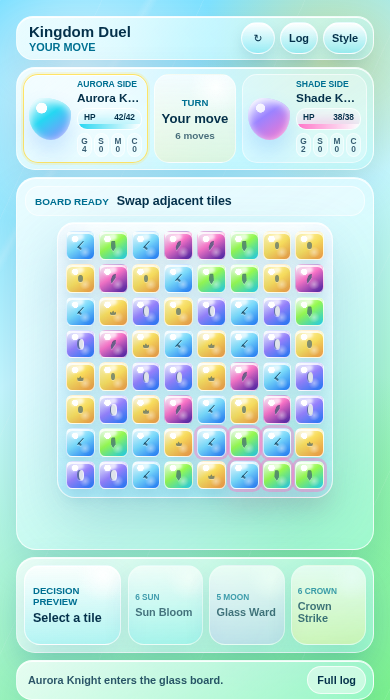
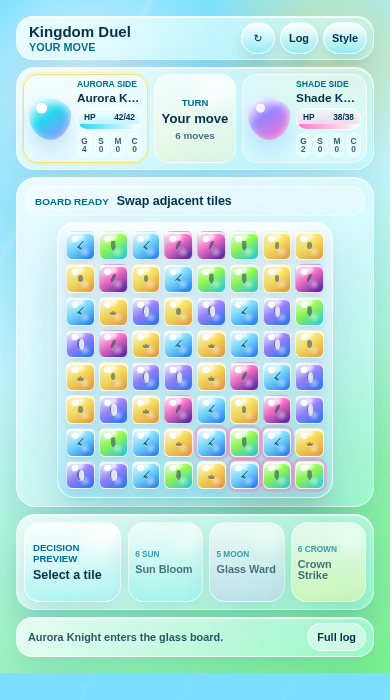
Stabilize mobile drag and board fit

Changed region(s): [[0.0, 0.69, 1.0, 1.0]]

diff --git a/src/main.ts b/src/main.ts
@@ -152,19 +152,6 @@ function adjacentCellSet(cell: Cell | null): Set<string> {
   return cells;
 }
 
-function legalTargetSet(cell: Cell | null): Set<string> {
-  const cells = new Set<string>();
-  if (!cell) return cells;
-
-  for (const key of adjacentCellSet(cell)) {
-    const [x, y] = key.split(',').map(Number);
-    const next = { x, y };
-    if (previewSwap(duel.board, cell, next).valid) cells.add(key);
-  }
-
-  return cells;
-}
-
 function statBar(label: string, value: number, max: number, tone: string): string {
   const pct = Math.max(0, Math.min(100, (value / max) * 100));
   return `
@@ -246,7 +233,6 @@ function renderPlayableBoard(preview: MovePreview | null, intent: EnemyIntent | 
   const intentCells = intentCellSet(intent);
   const spellTargetCells = spellTargetCellSet();
   const neighborCells = activeSpell ? new Set<string>() : adjacentCellSet(selectedCell);
-  const legalTargets = activeSpell ? new Set<string>() : legalTargetSet(selectedCell);
   return `
     <div class="play-board ${activeSpell ? 'is-targeting' : ''}" aria-label="Playable match-3 board">
       ${duel.board.tiles
@@ -257,7 +243,6 @@ function renderPlayableBoard(preview: MovePreview | null, intent: EnemyIntent | 
             sameCell(selectedCell, cell) ? 'is-selected' : '',
             sameCell(hoverCell, cell) ? 'is-hovered' : '',
             neighborCells.has(key) ? 'is-neighbor' : '',
-            legalTargets.has(key) ? 'is-legal-target' : '',
             sameCell(bumpCell, cell) ? 'is-bumped' : '',
             previewCells.has(key) ? 'is-preview' : '',
             intentCells.has(key) ? 'is-threat' : '',
@@ -869,29 +854,33 @@ app.addEventListener('click', (event) => {
 
 app.addEventListener('pointerdown', (event) => {
   const target = event.target as HTMLElement | null;
-  const cellValue = target?.closest<HTMLElement>('[data-cell]')?.dataset.cell;
-  if (cellValue === undefined || !canUseBoard()) return;
+  const gem = target?.closest<HTMLElement>('[data-cell]');
+  const cellValue = gem?.dataset.cell;
+  if (!gem || cellValue === undefined || !canUseBoard()) return;
 
   event.preventDefault();
+  try {
+    gem.setPointerCapture(event.pointerId);
+  } catch {
+    // Some mobile browsers reject capture during synthetic or interrupted touches.
+  }
   const startCell = cellFromIndex(Number(cellValue));
   dragState = { pointerId: event.pointerId, startCell, startX: event.clientX, startY: event.clientY };
-  selectedCell = startCell;
-  hoverCell = null;
-  bumpCell = null;
-  renderApp();
 });
 
-app.addEventListener('pointermove', (event) => {
+window.addEventListener('pointermove', (event) => {
   if (!dragState || dragState.pointerId !== event.pointerId || !canUseBoard()) return;
   event.preventDefault();
 
   const targetCell = dragTargetCell(dragState.startCell, event.clientX - dragState.startX, event.clientY - dragState.startY);
   if (!targetCell || sameCell(hoverCell, targetCell)) return;
+  selectedCell = dragState.startCell;
   hoverCell = targetCell;
+  bumpCell = null;
   renderApp();
 });
 
-app.addEventListener('pointerup', (event) => {
+window.addEventListener('pointerup', (event) => {
   if (!dragState || dragState.pointerId !== event.pointerId) return;
   event.preventDefault();
   suppressNextCellClick = true;
@@ -911,7 +900,7 @@ app.addEventListener('pointerup', (event) => {
   handleBoardTap(cellValue === undefined ? endedDrag.startCell : cellFromIndex(Number(cellValue)));
 });
 
-app.addEventListener('pointercancel', (event) => {
+window.addEventListener('pointercancel', (event) => {
   if (!dragState || dragState.pointerId !== event.pointerId) return;
   dragState = null;
   hoverCell = null;

diff --git a/src/styles.css b/src/styles.css
@@ -1744,13 +1744,17 @@ button {
 @media (max-width: 680px) {
   .play-shell {
     --shell-pad: 8px;
+    height: auto;
     min-height: 620px;
+    overflow-x: hidden;
+    overflow-y: auto;
   }
 
   .cockpit-stage {
-    grid-template-rows: auto auto minmax(0, 1fr) auto auto;
+    grid-template-rows: auto auto auto auto auto;
     gap: 7px;
-    min-height: calc(100dvh - (var(--shell-pad) * 2));
+    height: auto;
+    min-height: 0;
   }
 
   .game-bar {